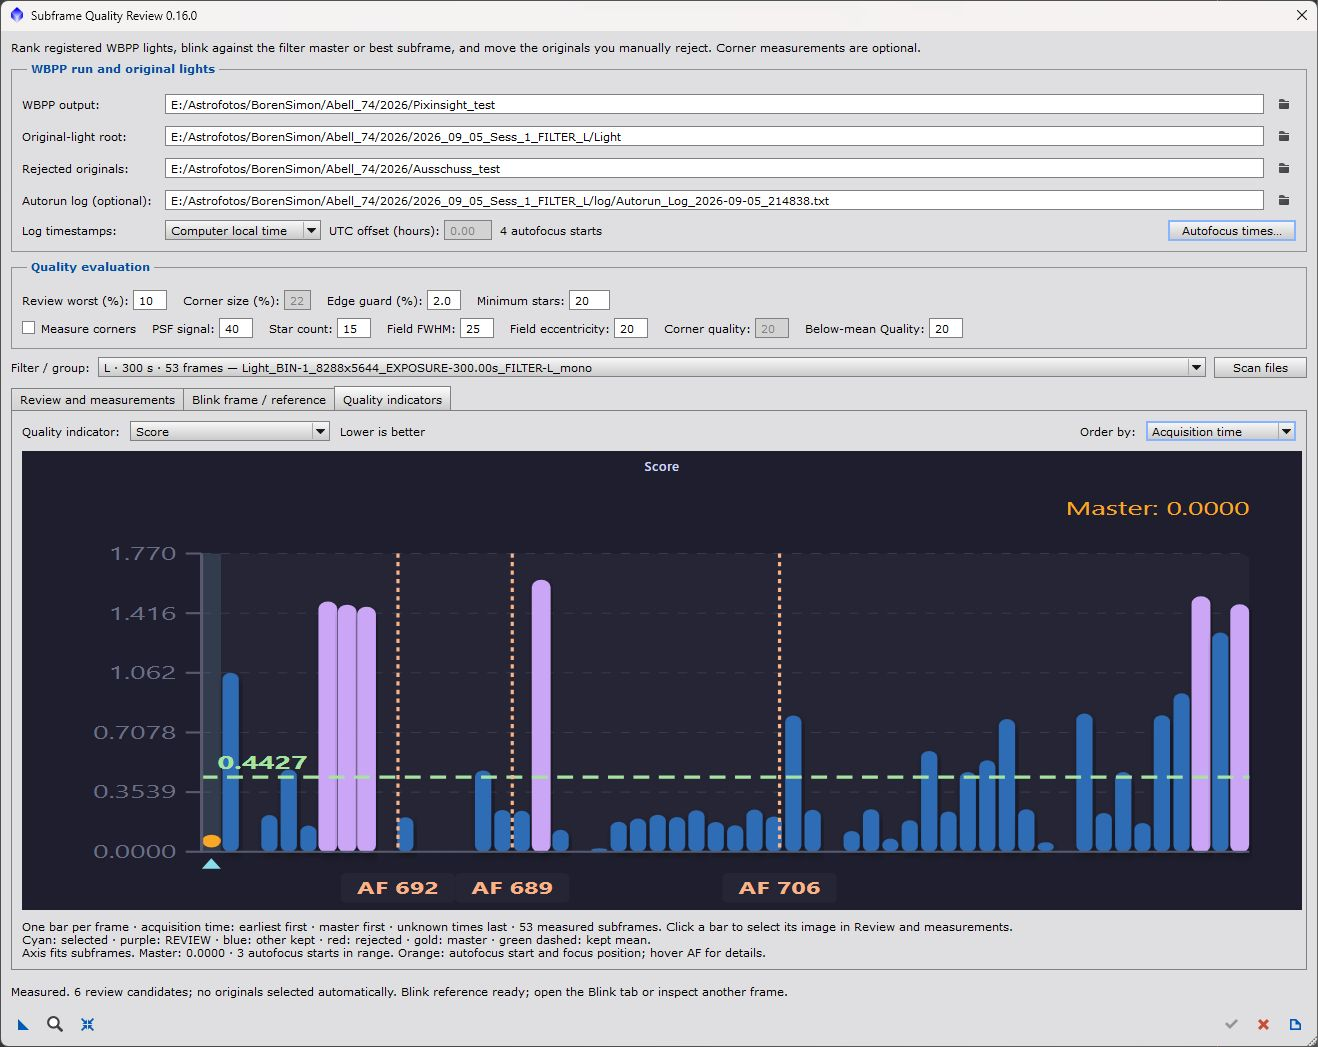
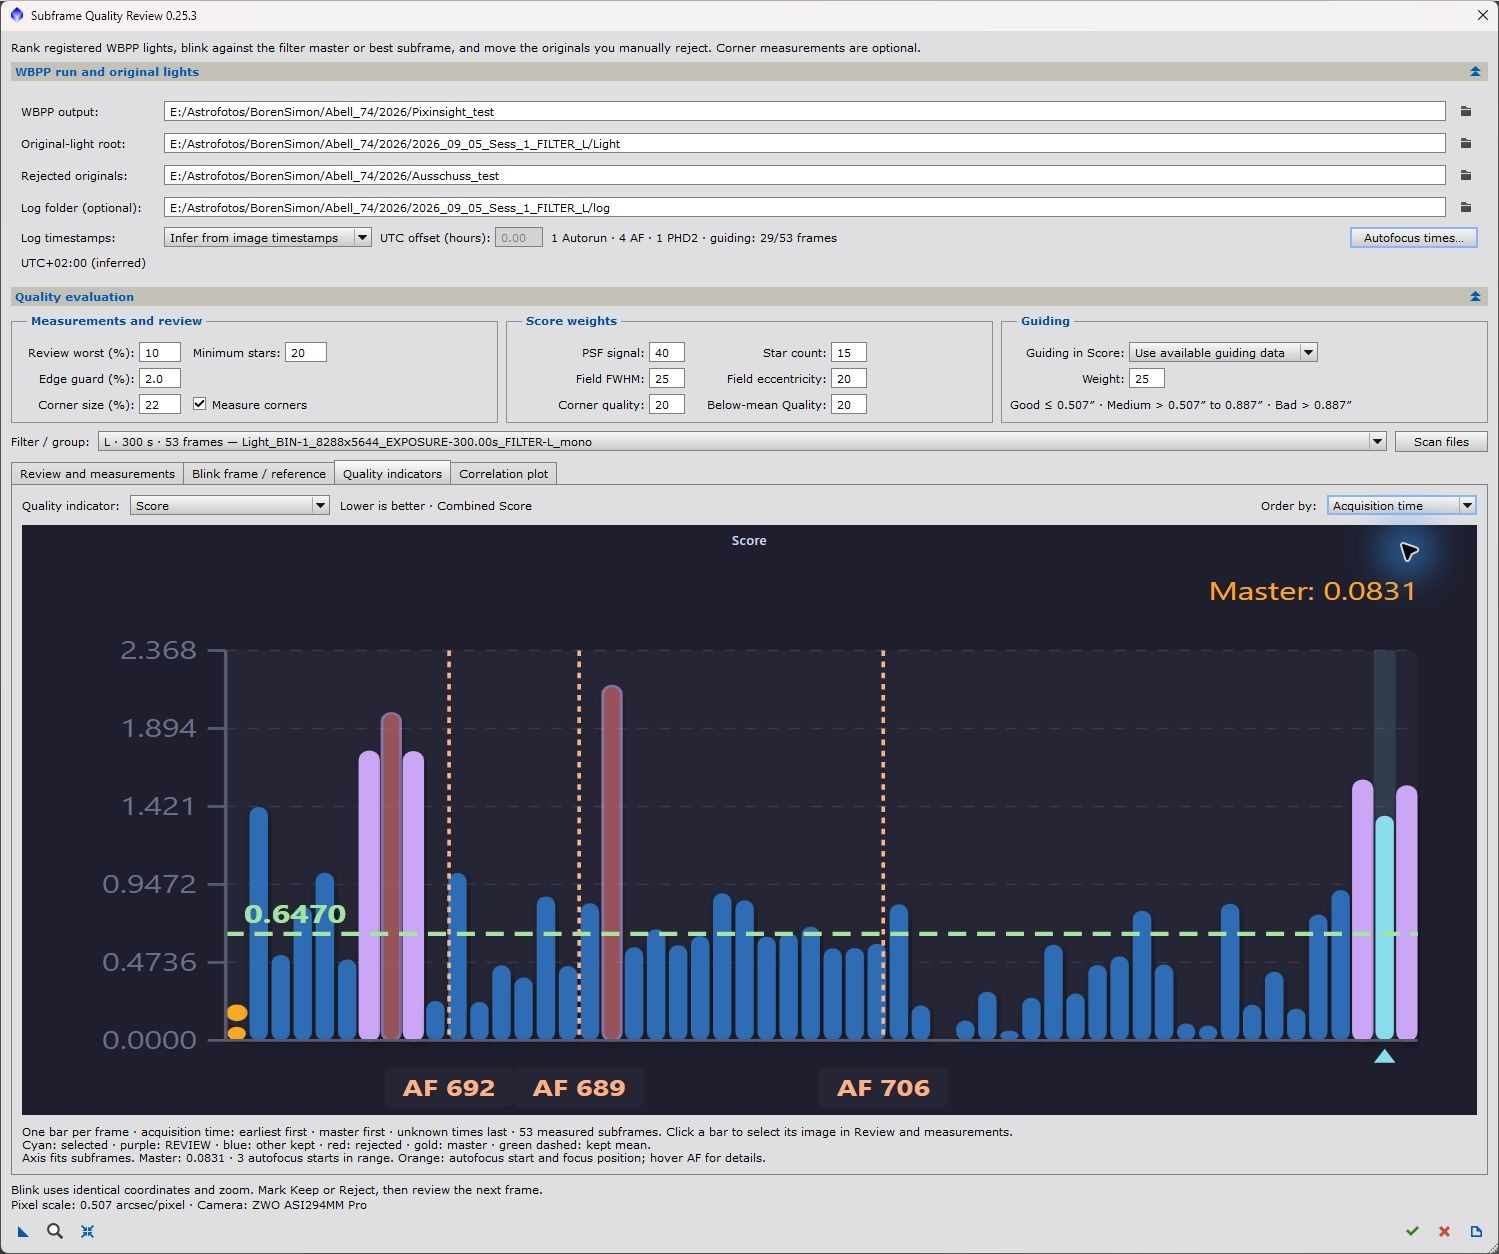
docs: update Subframe Quality Review README for v0.25.3 - Update version, date, and feature descriptions - Refresh review, blink, and Score screenshots - Add guiding and correlation plot screenshots

Changed region(s): [[0.0, 0.0, 1.0, 1.0], [0.9332, 0.978, 1.0, 1.0]]

diff --git a/README.md b/README.md
@@ -60,7 +60,7 @@ The packaged updater release may lag behind the repository source. To use the V8
 | Match L and RGB sharpness | [LRGB Deconvolution Match](#lrgb-deconvolution-match) | 1.13.1 | Uses BlurXTerminator to match stellar halo profiles with estimated sharpening, independent FWHM checks, and blink previews. | 2026&#8209;10&#8209;19 |
 | Match intensity scales | [ROI Linear Fit](#roi-linear-fit) | 1.1.6 | Measures a fit in a selected region and applies it to the full target image. | 2026&#8209;10&#8209;04 |
 | Protect diffraction spikes | [Star Spike Protection Mask](#star-spike-protection-mask) | 1.7.2 | Builds a soft mask protecting bright stellar cores and their spikes. | 2026&#8209;10&#8209;10 |
-| Review WBPP subframes | [Subframe Quality Review](#subframe-quality-review) | 0.16.0 | Ranks registered lights, provides blink comparisons and quality plots, and moves manually rejected originals after confirmation. | 2026&#8209;10&#8209;19 |
+| Review WBPP subframes | [Subframe Quality Review](#subframe-quality-review) | 0.25.3 | Ranks registered lights with optional guiding data, offers blink and correlation plots, and moves manually rejected originals after confirmation. | 2026&#8209;10&#8209;22 |
 | Develop scripts | [TGScriptSkeleton](#tgscriptskeleton) | 1.6 | Provides a reusable dialog, image preview, and process-instance framework. | 2026&#8209;10&#8209;19 |
 
 Versions follow the declarations in the repository source.
@@ -294,13 +294,17 @@ Designed for a **stretched stars-only image** with roughly straight spikes on tw
 
 ### Subframe Quality Review
 
-**Version:** 0.16.0 · **Last update:** 2026-10-19
+**Version:** 0.25.3 · **Last update:** 2026-10-22
 
-Reviews **registered light frames from a completed WeightedBatchPreprocessing (WBPP) run** to help decide which original exposures to exclude before rerunning WBPP. PixInsight's SubframeSelector measures PSF signal weight, star count, FWHM, and eccentricity, with optional center and corner measurements. Adjustable weights combine these into a relative quality score within each comparable filter/exposure group; **lower Score is better**. **Below-mean Quality** shows the percentage of assessed indicators worse than their group mean.
+Reviews **registered light frames from a completed WeightedBatchPreprocessing (WBPP) run** to help decide which original exposures to exclude before rerunning WBPP. SubframeSelector measures PSF signal weight, star count, FWHM, and eccentricity over the common valid field, with optional center and corner measurements. Adjustable weights combine image quality, **Below-mean Quality**, and optional guiding quality into a relative score within each filter/exposure group; **lower Score is better**. Below-mean Quality reports the percentage of assessed, enabled indicators worse than their group mean.
 
-The **Review and measurements** table shortlists the worst **10%** by default and flags insufficient measurements for inspection. Use **Blink frame / reference** to compare an image with the best scoring subframe or the corresponding linear filter master, across the field, center, or corners. Preview stretching and brightness alignment aid comparison without changing image pixels. **Quality indicators** plots measurements by value or acquisition sequence, with optional autofocus-start markers imported from an Autorun log. Markers include the final successful focus position when available (for example, **AF 692**), while remaining positioned at the autofocus start time.
+- **Review and measurements:** shortlists the worst **10%** by default and flags missing required measurements. Sort in either direction by quality, rank, acquisition time, or guiding statistics, and optionally show only REVIEW candidates.
+- **Blink frame / reference:** compare with the best scoring subframe or matching linear filter master, rotate through subframes in the visible Review order, or cycle through image regions. Adjustable playback intervals (**0.10–10 seconds**) and preserved zoom/pan make comparisons easier; display stretching and brightness alignment leave image pixels unchanged.
+- **Quality indicators:** show one bar per frame, ordered by indicator value or acquisition time, with review/rejection colors, master comparison, and a mean line for non-rejected frames. Acquisition-order plots can show autofocus-start markers labeled with the final successful focus position.
+- **Guiding and logs:** an optional log folder supplies Autorun autofocus events and PHD2 guiding samples matched to each exposure. Minimum, average, and maximum guiding errors are shown in arcseconds; combined guiding quality can contribute to Score. Choose **Require guiding data**, **Use available guiding data**, or **Ignore guiding KPI**. Guiding-statistic plots show Good/Medium/Bad bands based on the imaging pixel scale.
+- **Correlation plot:** compare two selectable indicators in a scatter plot with a Pearson correlation coefficient and an explanation of its strength and direction. Click a point to select its subframe for review.
 
-**REVIEW is a suggestion, not a rejection decision.** Mark unwanted originals manually, then use the green checkmark to inspect and confirm the move plan. Only uniquely verified original lights are moved to the chosen rejection folder, preserving relative subdirectories and recording a move journal; calibrated images, registered images, and masters remain in place. Refresh WBPP's input list before rerunning it. Measurements and pending decisions last only while the dialog stays open; saved process instances retain settings, not the measured review session.
+**REVIEW is a suggestion, not a rejection decision.** Mark unwanted originals manually, then use the green checkmark to inspect and confirm the move plan. Only uniquely verified original lights are moved, preserving relative subdirectories and recording a move journal; calibrated images, registered images, and masters remain in place. Refresh WBPP's input list before rerunning it. Measurements and pending decisions last only while the dialog stays open; saved process instances retain settings, not the measured review session.
 
 Requires **PixInsight 1.9.5+ with V8**. Supports XISF/FITS monochrome and registered, debayered OSC lights from one telescope setup. Select the WBPP output directory and a separate original-light root. For master comparisons, retain the matching **linear, uncropped, non-drizzled integration** with the same dimensions as the registered lights. [Source](TGScripts_repository/src/scripts/TGScripts/SubframeQualityReview.js) · [Guide](TGScripts_repository/doc/scripts/SubframeQualityReview/SubframeQualityReview.html)
 
@@ -309,15 +313,23 @@ Requires **PixInsight 1.9.5+ with V8**. Supports XISF/FITS monochrome and regist
 
 **Review and measurements**
 
-![Subframe Quality Review 0.15.2 with 53 measured luminance frames, quality weights, field and corner rankings, and review candidates](TGScripts_repository/images/SubframeQualityReview_main_screen.jpg)
+![Subframe Quality Review 0.25.3 with 53 measured luminance frames, guiding controls, reversible sorting, quality rankings, and review candidates](TGScripts_repository/images/SubframeQualityReview_main_screen.jpg)
 
 **Blink frame / reference**
 
-![Subframe Quality Review 0.15.2 blink preview with best-subframe reference, region selection, display stretch, and brightness alignment controls](TGScripts_repository/images/SubframeQualityReview_blink_preview.jpg)
+![Subframe Quality Review 0.25.3 blink preview with reference and region selection, adjustable playback interval, display stretch, and brightness alignment](TGScripts_repository/images/SubframeQualityReview_blink_preview.jpg)
 
-**Quality indicators**
+**Quality indicators — Score in acquisition order**
 
-![Subframe Quality Review 0.16.0 Score plot in acquisition order with review candidates, a mean line, master comparison, and autofocus markers labeled with final focus positions](TGScripts_repository/images/SubframeQualityReview_quality_indicators.jpg)
+![Subframe Quality Review 0.25.3 Score plot with review candidates, rejected frames, kept-frame mean, master comparison, and autofocus-start markers labeled with final focus positions](TGScripts_repository/images/SubframeQualityReview_quality_indicators.jpg)
+
+**Guiding indicators — average error**
+
+![Subframe Quality Review 0.25.3 guide-average plot in arcseconds with Good, Medium, and Bad background bands based on the imaging pixel scale](TGScripts_repository/images/SubframeQualityReview_guiding_indicators.jpg)
+
+**Correlation plot**
+
+![Subframe Quality Review 0.25.3 scatter plot comparing field FWHM with PSF signal weight, with Pearson correlation and selectable subframes](TGScripts_repository/images/SubframeQualityReview_correlation_plot.jpg)
 
 </details>
 
